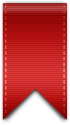
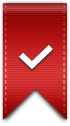
change ribbon

Changed region(s): [[0.2571, 0.3571, 0.7714, 0.5714]]

diff --git a/TongjiXuanke/NewsDetailViewController.m b/TongjiXuanke/NewsDetailViewController.m
@@ -158,6 +158,8 @@
 {
     if(favorated)
     {
+        [fav_button setImage:[UIImage imageNamed:@"fav_ribbon.png"] forState:UIControlStateNormal];
+        [fav_button setImage:[UIImage imageNamed:@"fav_ribbon.png"] forState:UIControlStateHighlighted];
         [UIView animateWithDuration:0.2 animations:^(){
             CGRect frame = fav_button.frame;
             frame.origin.y = -2;
@@ -175,9 +177,11 @@
     }
     else if(!favorated)
     {
+        [fav_button setImage:[UIImage imageNamed:@"fav_ribbon_add.png"] forState:UIControlStateNormal];
+        [fav_button setImage:[UIImage imageNamed:@"fav_ribbon_add.png"] forState:UIControlStateHighlighted];
         [UIView animateWithDuration:0.2 animations:^(){
             CGRect frame = fav_button.frame;
-            frame.origin.y = - 25;
+            frame.origin.y = - 20;
             
             fav_button.frame = frame;
         }];
@@ -208,7 +212,11 @@
     [segmentedControl addTarget:self action:@selector(modeChanged:)   forControlEvents:UIControlEventValueChanged];
     [segmentedControl setSegmentedControlStyle:UISegmentedControlStyleBar];
     
-    self.navigationItem.titleView = segmentedControl;
+    
+    UIView *container = [[UIView alloc] initWithFrame:CGRectMake(0, 20, 150, 30)];
+    [container addSubview:segmentedControl];
+    
+    self.navigationItem.titleView = container;
     [segmentedControl setSelectedSegmentIndex:0];
     [self modeChanged:nil];
 
@@ -224,8 +232,8 @@
     frame.size.height = 63;
     
     fav_button = [[UIButton alloc] initWithFrame:frame];
-    [fav_button setImage:[UIImage imageNamed:@"fav_ribbon.png"] forState:UIControlStateNormal];
-    [fav_button setImage:[UIImage imageNamed:@"fav_ribbon.png"] forState:UIControlStateHighlighted];
+    [fav_button setImage:[UIImage imageNamed:@"fav_ribbon_add.png"] forState:UIControlStateNormal];
+    [fav_button setImage:[UIImage imageNamed:@"fav_ribbon_add.png"] forState:UIControlStateHighlighted];
     [fav_button addTarget:self action:@selector(clickFavButton) forControlEvents:UIControlEventTouchUpInside];
     
     [self.navigationController.navigationBar setBackgroundImage:[UIImage imageNamed:@"nav_bar_bg.png"] forBarMetrics:UIBarMetricsDefault];
